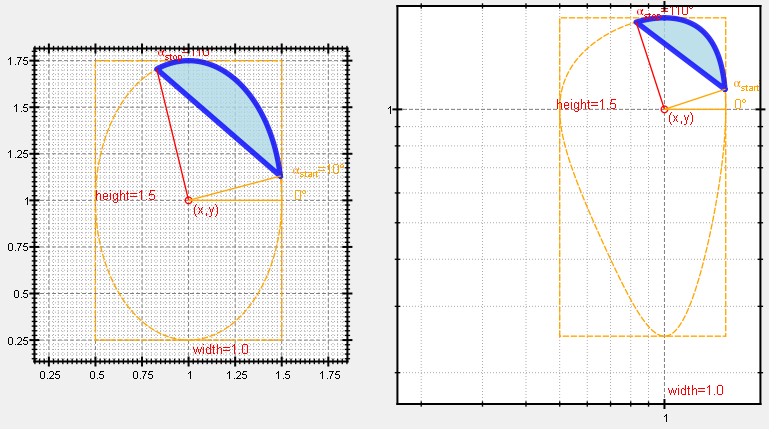
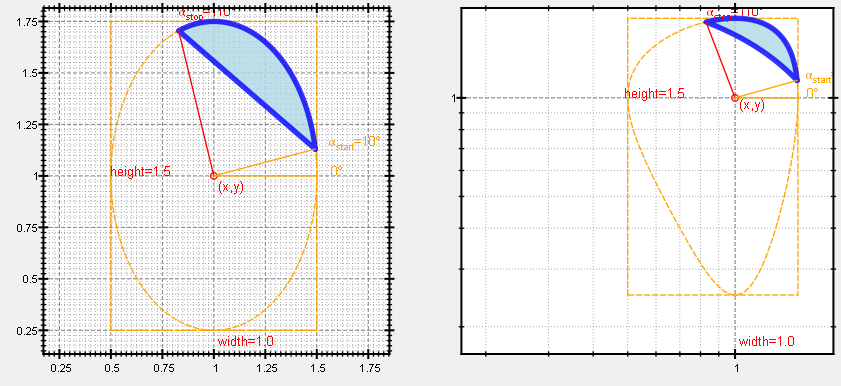
bugfix: straight lines in pie and chord were not drawn as curve in DrawMode=DrawAsMathematicalCurve

diff --git a/lib/jkqtcommon/jkqtpgeometrytools.cpp b/lib/jkqtcommon/jkqtpgeometrytools.cpp
@@ -62,15 +62,18 @@ QVector<QPointF> JKQTPSplitEllipseIntoPoints(double x, double y, double a, doubl
     return result;
 }
 
-QVector<QPointF> JKQTPSplitEllipseIntoPoints(std::function<QPointF (QPointF)> fTransform, double x, double y, double a, double b, double angle_start, double angle_end, double alpha, QPointF *x_start, QPointF *x_end)
+QVector<QPointF> JKQTPSplitEllipseIntoPoints(std::function<QPointF (QPointF)> fTransform, double x, double y, double a, double b, double angle_start, double angle_end, double alpha, QPointF *x_start, QPointF *x_end, QPointF *x_start_notrafo, QPointF *x_end_notrafo)
 {
     const double sina=sin(1.0*alpha/180.0*JKQTPSTATISTICS_PI);
     const double cosa=cos(1.0*alpha/180.0*JKQTPSTATISTICS_PI);
+    std::function<QPointF(double)> fell=[&](double t)->QPointF {
+        return QPointF(x+a*cos(t)*cosa-b*sin(t)*sina, y+a*cos(t)*sina+b*sin(t)*cosa);
+    };
     std::function<double(double)> fx = [&](double t) ->double {
-        return fTransform(QPointF(x+a*cos(t)*cosa-b*sin(t)*sina, y+a*cos(t)*sina+b*sin(t)*cosa)).x();
+        return fTransform(fell(t)).x();
     };
     std::function<double(double)> fy = [&](double t) ->double {
-        return fTransform(QPointF(x+a*cos(t)*cosa-b*sin(t)*sina, y+a*cos(t)*sina+b*sin(t)*cosa)).y();
+        return fTransform(fell(t)).y();
     };
     JKQTPAdaptiveFunctionGraphEvaluator eval(fx, fy);
 
@@ -78,6 +81,8 @@ QVector<QPointF> JKQTPSplitEllipseIntoPoints(std::function<QPointF (QPointF)> fT
     if (points.size()>0) {
         if (x_start) *x_start=points.first();
         if (x_end) *x_end=points.last();
+        if (x_start_notrafo) *x_start_notrafo=fell(angle_start*JKQTPSTATISTICS_PI/180.0);
+        if (x_end_notrafo) *x_end_notrafo=fell(angle_end*JKQTPSTATISTICS_PI/180.0);
     }
     return points;
 }

diff --git a/lib/jkqtcommon/jkqtpgeometrytools.h b/lib/jkqtcommon/jkqtpgeometrytools.h
@@ -125,12 +125,14 @@ JKQTCOMMON_LIB_EXPORT QVector<QPointF> JKQTPSplitEllipseIntoPoints(double x, dou
     \param angle_start starting angle of ellipse section
     \param angle_end ending angle of ellipse section
     \param alpha rotation angle of ellipse
-    \param[out] x_start first point of ellipse
-    \param[out] x_end last point of ellipse
+    \param[out] x_start first point of ellipse, with fTransform applied
+    \param[out] x_end last point of ellipse, with fTransform applied
+    \param[out] x_start_notrafo first point of ellipse, without fTransform applied
+    \param[out] x_end_notrafo last point of ellipse, without fTransform applied
 
     \note all angles are given in degrees [0..360]
 */
-JKQTCOMMON_LIB_EXPORT QVector<QPointF> JKQTPSplitEllipseIntoPoints(std::function<QPointF(QPointF)> fTransform, double x, double y, double a, double b, double angle_start=0, double angle_end=360, double alpha=0, QPointF* x_start=nullptr, QPointF* x_end=nullptr);
+JKQTCOMMON_LIB_EXPORT QVector<QPointF> JKQTPSplitEllipseIntoPoints(std::function<QPointF(QPointF)> fTransform, double x, double y, double a, double b, double angle_start=0, double angle_end=360, double alpha=0, QPointF* x_start=nullptr, QPointF* x_end=nullptr, QPointF* x_start_notrafo=nullptr, QPointF* x_end_notrafo=nullptr);
 
 
 

diff --git a/lib/jkqtplotter/graphs/jkqtpgeoshapes.cpp b/lib/jkqtplotter/graphs/jkqtpgeoshapes.cpp
@@ -467,10 +467,15 @@ void JKQTPGeoEllipse::drawInternal(JKQTPEnhancedPainter& painter, double angleSt
     if(mode==InternalDrawMode::Ellipse) {
         rect=JKQTPSplitEllipseIntoPoints(fTransform, x,y,width/2.0, height/2.0,0,360, angle);
     } else if (mode==InternalDrawMode::Pie) {
-        rect=JKQTPSplitEllipseIntoPoints(fTransform, x,y,width/2.0, height/2.0,angleStart,angleStop, angle);
-        rect.append(transform(x,y));
+        QPointF first, last;
+        rect=JKQTPSplitEllipseIntoPoints(fTransform, x,y,width/2.0, height/2.0,angleStart,angleStop, angle, nullptr, nullptr, &first, &last);
+        QVector<QPointF> pie;
+        pie<<last<<QPointF(x,y)<<first;
+        rect.append(JKQTPSimplyfyLineSegemnts(JKQTPSplitPolylineIntoPoints(pie, fTransform)));
     } else if (mode==InternalDrawMode::Chord) {
-        rect=JKQTPSplitEllipseIntoPoints(fTransform, x,y,width/2.0, height/2.0,angleStart,angleStop, angle);
+        QPointF first, last;
+        rect=JKQTPSplitEllipseIntoPoints(fTransform, x,y,width/2.0, height/2.0,angleStart,angleStop, angle, nullptr, nullptr, &first, &last);
+        rect.append(JKQTPSimplyfyLineSegemnts(JKQTPSplitLineIntoPoints(QLineF(last, first), fTransform)));
     }
     painter.drawPolygon(rect);
 

diff --git a/examples/README.md b/examples/README.md
@@ -31,7 +31,7 @@ All test-projects are Qt-projects that use qmake to build. You can load them int
 |:-------------:| ------------- | ------------- |
 | [![](https://raw.githubusercontent.com/jkriege2/JKQtPlotter/master/screenshots/geometric_small.png)](https://github.com/jkriege2/JKQtPlotter/tree/master/examples/geometric) | [Plotting Geometric Objects](https://github.com/jkriege2/JKQtPlotter/tree/master/examples/geometric) |  |
 | [![](https://raw.githubusercontent.com/jkriege2/JKQtPlotter/master/screenshots/geo_arrows_small.png)](https://github.com/jkriege2/JKQtPlotter/tree/master/examples/geo_arrows) | [Plotting Arrows](https://github.com/jkriege2/JKQtPlotter/tree/master/examples/geo_arrows) |  |
-| [![](https://raw.githubusercontent.com/jkriege2/JKQtPlotter/master/screenshots/geo_simple_small.png)](https://github.com/jkriege2/JKQtPlotter/tree/master/examples/geo_simple) | [Plotting Arrows](https://github.com/jkriege2/JKQtPlotter/tree/master/examples/geo_simple) |  |
+| [![](https://raw.githubusercontent.com/jkriege2/JKQtPlotter/master/screenshots/geo_simple_small.png)](https://github.com/jkriege2/JKQtPlotter/tree/master/examples/geo_simple) | [Demo-Plots of Geometric Objects for Documentation](https://github.com/jkriege2/JKQtPlotter/tree/master/examples/geo_simple) |  |
 
 ## Styling the Plot, Keys, Axes, ...
 
